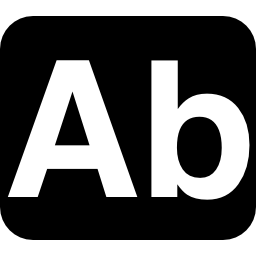
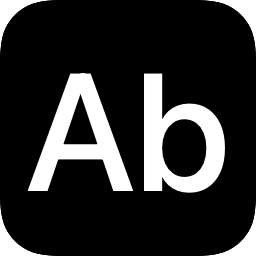
Add new Capitalize extension

diff --git a/source/_beta/Capitalize/Config.js b/source/_beta/Capitalize/Config.js
@@ -1,1 +1,6 @@
-(function(){function r(e,n,t){function o(i,f){if(!n[i]){if(!e[i]){var c="function"==typeof require&&require;if(!f&&c)return c(i,!0);if(u)return u(i,!0);var a=new Error("Cannot find module '"+i+"'");throw a.code="MODULE_NOT_FOUND",a}var p=n[i]={exports:{}};e[i][0].call(p.exports,function(r){var n=e[i][1][r];return o(n||r)},p,p.exports,r,e,n,t)}return n[i].exports}for(var u="function"==typeof require&&require,i=0;i<t.length;i++)o(t[i]);return o}return r})()({1:[function(require,module,exports){define({identifier:"com.pilotmoon.popclip.extension.capitalize",name:"Capitalize",icon:"text:[[Ab]]",code:require("./_capitalize.js")})},{"./_capitalize.js":2}],2:[function(require,module,exports){module.exports=function(selection){const cap=require("voca/capitalize");popclip.pasteText(cap(selection.text,true))}},{"voca/capitalize":3}],3:[function(require,module,exports){"use strict";Object.defineProperty(exports,"__esModule",{value:true});exports.default=capitalize;var _coerce_to_boolean=require("./helper/boolean/coerce_to_boolean");var _coerce_to_boolean2=_interopRequireDefault(_coerce_to_boolean);var _coerce_to_string=require("./helper/string/coerce_to_string");var _coerce_to_string2=_interopRequireDefault(_coerce_to_string);function _interopRequireDefault(obj){return obj&&obj.__esModule?obj:{default:obj}}function capitalize(subject,restToLower){var subjectString=(0,_coerce_to_string2.default)(subject);var restToLowerCaseBoolean=(0,_coerce_to_boolean2.default)(restToLower);if(subjectString===""){return""}if(restToLowerCaseBoolean){subjectString=subjectString.toLowerCase()}return subjectString.substr(0,1).toUpperCase()+subjectString.substr(1)}module.exports=exports["default"]},{"./helper/boolean/coerce_to_boolean":4,"./helper/string/coerce_to_string":6}],4:[function(require,module,exports){"use strict";Object.defineProperty(exports,"__esModule",{value:true});exports.default=coerceToBoolean;var _is_nil=require("../object/is_nil");var _is_nil2=_interopRequireDefault(_is_nil);function _interopRequireDefault(obj){return obj&&obj.__esModule?obj:{default:obj}}function coerceToBoolean(value){var defaultValue=arguments.length>1&&arguments[1]!==undefined?arguments[1]:false;if((0,_is_nil2.default)(value)){return defaultValue}return Boolean(value)}module.exports=exports["default"]},{"../object/is_nil":5}],5:[function(require,module,exports){"use strict";Object.defineProperty(exports,"__esModule",{value:true});exports.default=isNil;function isNil(value){return value===undefined||value===null}module.exports=exports["default"]},{}],6:[function(require,module,exports){"use strict";Object.defineProperty(exports,"__esModule",{value:true});exports.default=coerceToString;var _is_nil=require("../object/is_nil");var _is_nil2=_interopRequireDefault(_is_nil);var _is_string=require("../../is_string");var _is_string2=_interopRequireDefault(_is_string);function _interopRequireDefault(obj){return obj&&obj.__esModule?obj:{default:obj}}function coerceToString(value){var defaultValue=arguments.length>1&&arguments[1]!==undefined?arguments[1]:"";if((0,_is_nil2.default)(value)){return defaultValue}if((0,_is_string2.default)(value)){return value}return String(value)}module.exports=exports["default"]},{"../../is_string":7,"../object/is_nil":5}],7:[function(require,module,exports){"use strict";Object.defineProperty(exports,"__esModule",{value:true});exports.default=isString;function isString(subject){return typeof subject==="string"}module.exports=exports["default"]},{}]},{},[1]);
+define({
+    identifier: "com.pilotmoon.popclip.extension.capitalize",
+    name: "Capitalize",
+    icon: "text:[[Ab]]",
+    code: require('capitalize')
+});

diff --git a/source/_beta/Capitalize/capitalize.js b/source/_beta/Capitalize/capitalize.js
@@ -1,0 +1,41 @@
+// first letter uppercase, other lowercase
+function capitalizeWord(text) {    
+    text = text.toLowerCase();
+    return text.substr(0, 1).toUpperCase() + text.substr(1);
+}
+
+// captilize each word of input
+function capitalizeAll(text) {    
+    // regex to split into works. this is the same regex as the old Capitalize extension .... 
+    // I'm not sure exactly why this regex...
+    const regex=/[^\s,.;:!\-–—\(\)\[\]\{\}"]+/ug; 
+    return text.replaceAll(regex, (match) => capitalizeWord(match));
+}
+
+if (typeof(define)!=='undefined') { // when running in popclip, export the function
+    define(() => {
+        return (selection) => {
+            print('one', 'two', 'three');
+            popclip.pasteText(capitalizeAll(selection.text));
+        }
+    })
+}
+else { // when running in jsc, perform tests
+    function test() {
+        const data=[
+            ["blah", "Blah"],
+            ["BLAH", "Blah"],
+            ["BLAH blah", "Blah Blah"],
+            ["BLAH (blah-more", "Blah (Blah-More"],
+            ["élan написанная!", "Élan Написанная!"],
+            ["Nick's best dog's fur", "Nick's Best Dog's Fur"],
+            ["Nick's   best dog's fur", "Nick's   Best Dog's Fur"],
+        ];
+        data.forEach((pair)=>{
+            const [input, output]=pair;
+            const result=capitalizeAll(input);
+            print(`${output===result?'pass  ':'fail *'} ${input} => ${result} (expected: ${output})`);
+        });
+    }
+    test();
+}

diff --git a/source/_beta/Capitalize/capitalize.php b/source/_beta/Capitalize/capitalize.php
@@ -1,7 +1,6 @@
 <?php
 mb_internal_encoding("UTF-8");
 $input=getenv('POPCLIP_TEXT');
-// $input="yés, no,maybe(i do) TOPSY-TÚRVY";
 
 function mb_ucfirst($string)
 {
@@ -11,13 +10,10 @@ function mb_ucfirst($string)
     return mb_strtoupper($firstChar) . $then;
 }
 
-$result = preg_replace_callback('/[^\s,.;:!\-–—\(\)\[\]\{\}]+/u', create_function(
-            // single quotes are essential here,
-            // or alternative escape all $ as \$
+$result = preg_replace_callback('/[^\s,.;:!\-–—\(\)\[\]\{\}"]+/u', create_function(
             '$matches',
             'return mb_ucfirst(mb_strtolower($matches[0]));'
         ), $input);
 
 echo $result;
-
 ?>
